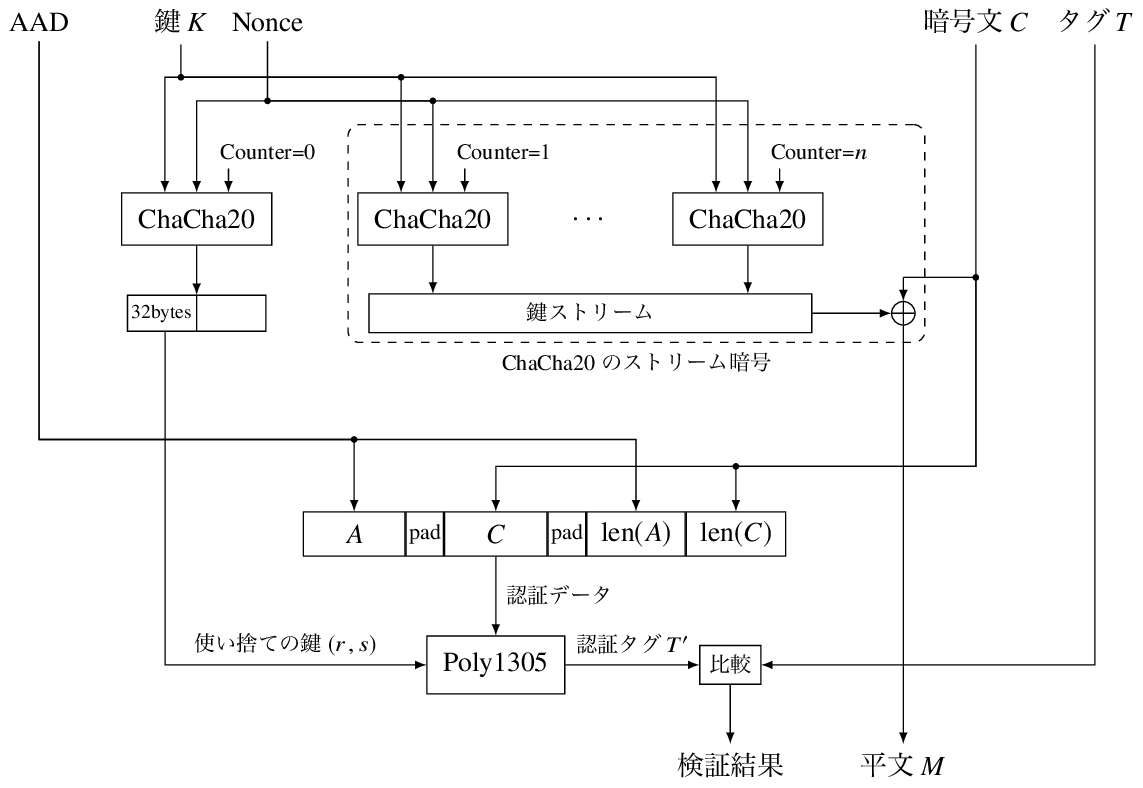
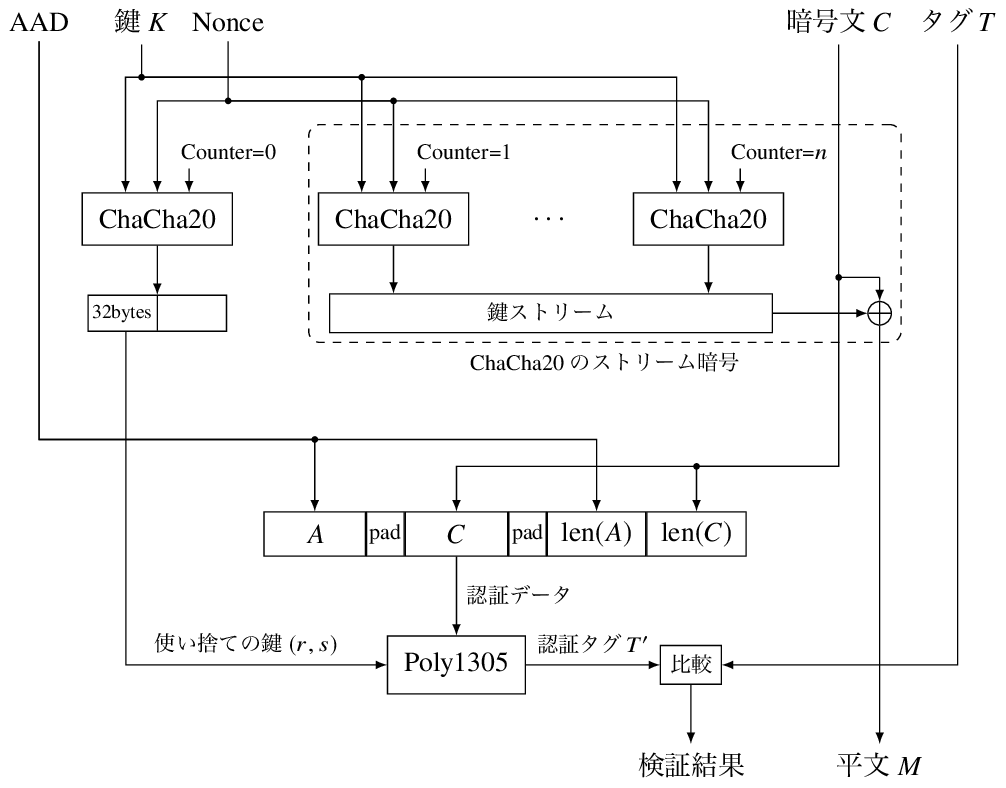
up image

diff --git a/media/post/tikz/chacha20poly1305/chacha20poly1305-dec.tex b/media/post/tikz/chacha20poly1305/chacha20poly1305-dec.tex
@@ -37,7 +37,7 @@
 
     \node at (+0.9,2.5) (Nonce) {Nonce};
     \node at (-0.2,2.5) (Key) {鍵$K$};
-    \node at (-2.0,2.5) (AAD) {AAD};
+    \node at (-1.5,2.5) (AAD) {AAD};
 
     \draw (Nonce) -- ++(0,-1.0) node[DOT] (Nonce_adj) {};
     \draw (Key)   -- ++(0,-0.7) node[DOT] (Key_adj) {};
@@ -62,10 +62,10 @@
     \draw[->] (ChaCha1.south) -- (ChaCha1.south|-Keystream.north);
     \draw[->] (ChaChan.south) -- (ChaChan.south|-Keystream.north);
 
-    \node[right=of Keystream, XOR] (XOR) {};
+    \node[right=1.2cm of Keystream, XOR] (XOR) {};
     \coordinate[above=0.3cm of XOR, inner sep=0] (XOR_adj) {};
     \node at (Nonce-|XOR) (Plaintext_adj) {};
-    \node[right=0.00cm of Plaintext_adj] (Ciphertext) {暗号文$C$};
+    \node[left=-0.4 of Plaintext_adj] (Ciphertext) {暗号文$C$};
 
     \draw[-] (Ciphertext.south) |- node[DOT] (XOR_adj2) {} (XOR_adj);
     \draw[->] (XOR_adj) -- (XOR);
